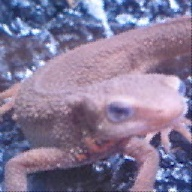
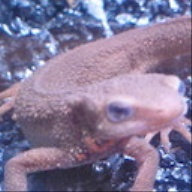
fixed Q26

diff --git a/Question_21_30/my_answer_26.py b/Question_21_30/my_answer_26.py
@@ -23,10 +23,10 @@ for y in range(Ha):
         dx = xa - int(xa)
         dy = ya - int(ya)
 
-        out[y, x] = (1-dx)*(1-dy)*in_[int(y/a)+pad, int(x/a)+pad] + \
-                        dx*(1-dy)*in_[int(y/a)+pad, int(x/a)+1+pad] + \
-                    (1-dx)*    dy*in_[int(y/a)+1+pad, int(x/a)+pad] + \
-                        dx*    dy*in_[int(y/a)+pad, int(x/a)+pad]
+        out[y, x] = (1-dx)*(1-dy)*in_[int(y/a)+pad,   int(x/a)+pad  ] + \
+                        dx*(1-dy)*in_[int(y/a)+pad,   int(x/a)+1+pad] + \
+                    (1-dx)*    dy*in_[int(y/a)+1+pad, int(x/a)+pad  ] + \
+                        dx*    dy*in_[int(y/a)+1+pad, int(x/a)+1+pad]
 
 out[out < 0] = 0
 out[out > 255] = 255
